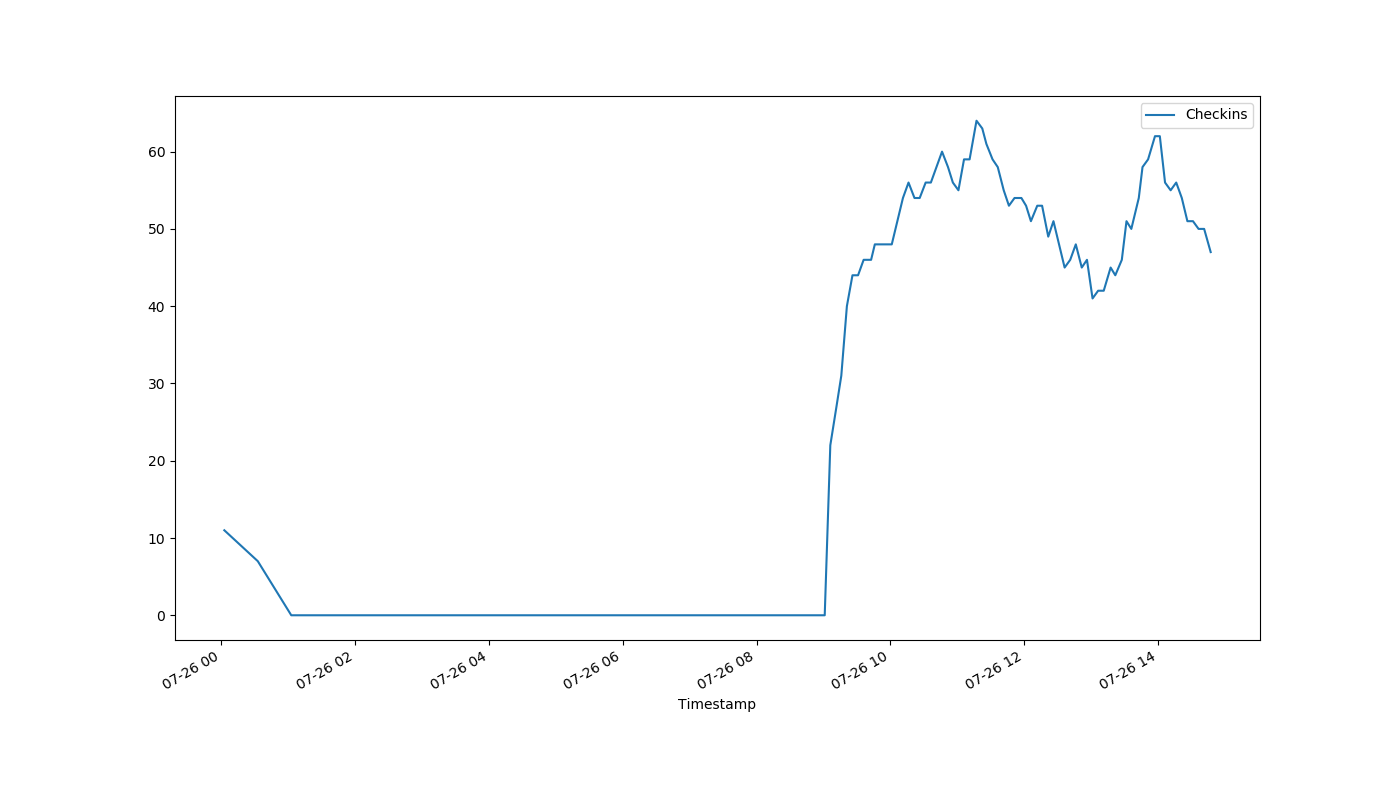
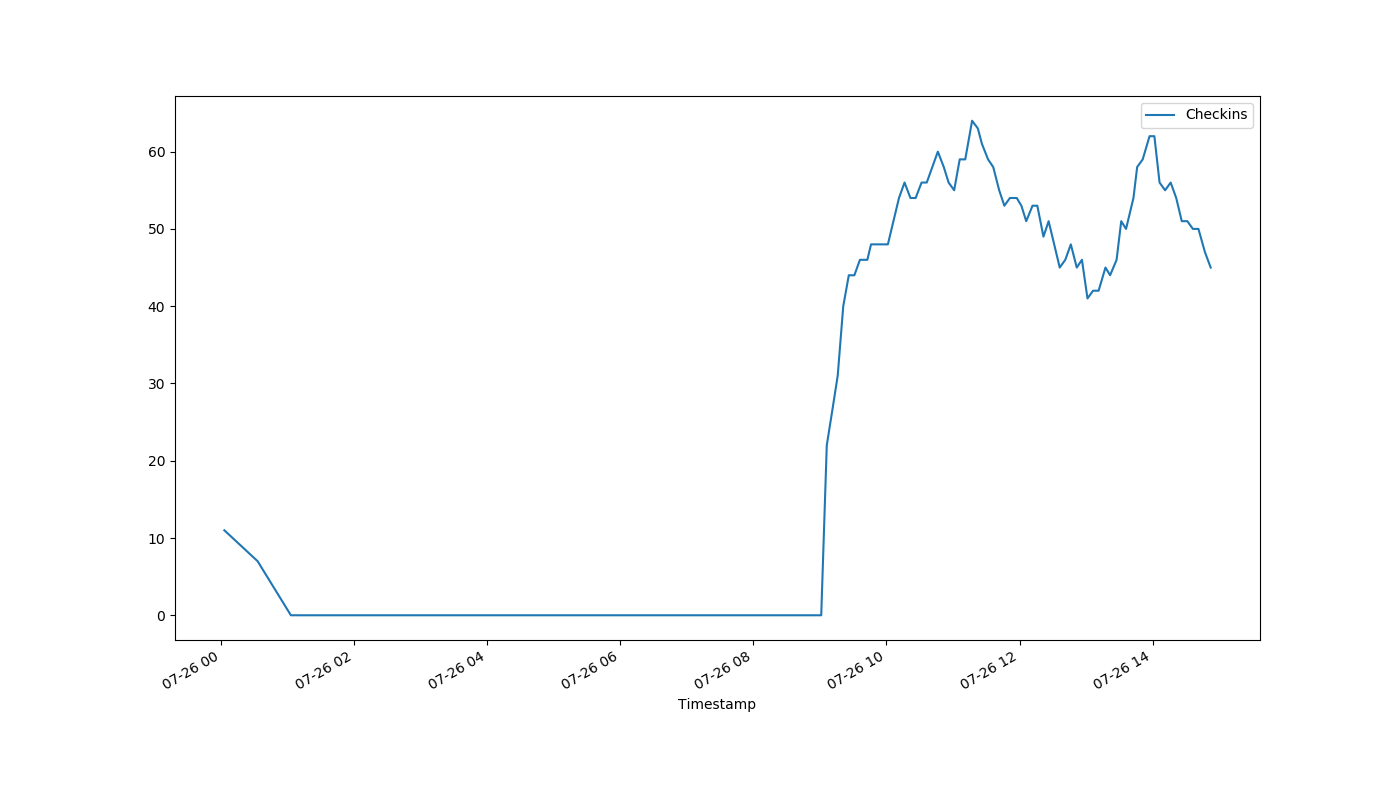
auto-Jul-26-14:54:51

diff --git a/index.html b/index.html
@@ -1,1 +1,1 @@
-<!DOCTYPE html><html><head><meta http-equiv="refresh" content="30"><link rel='stylesheet' href='holmcurrent.css'></head><body><p id='count'>47</p><div id='graph-wrap'><img id='graph' src='holmgraph-Jul-26.png'></div><p id='updated'>Last updated 14:48:07 / 14:47:10</p></body></html>
+<!DOCTYPE html><html><head><meta http-equiv="refresh" content="30"><link rel='stylesheet' href='holmcurrent.css'></head><body><p id='count'>45</p><div id='graph-wrap'><img id='graph' src='holmgraph-Jul-26.png'></div><p id='updated'>Last updated 14:53:07 / 14:52:21</p></body></html>
